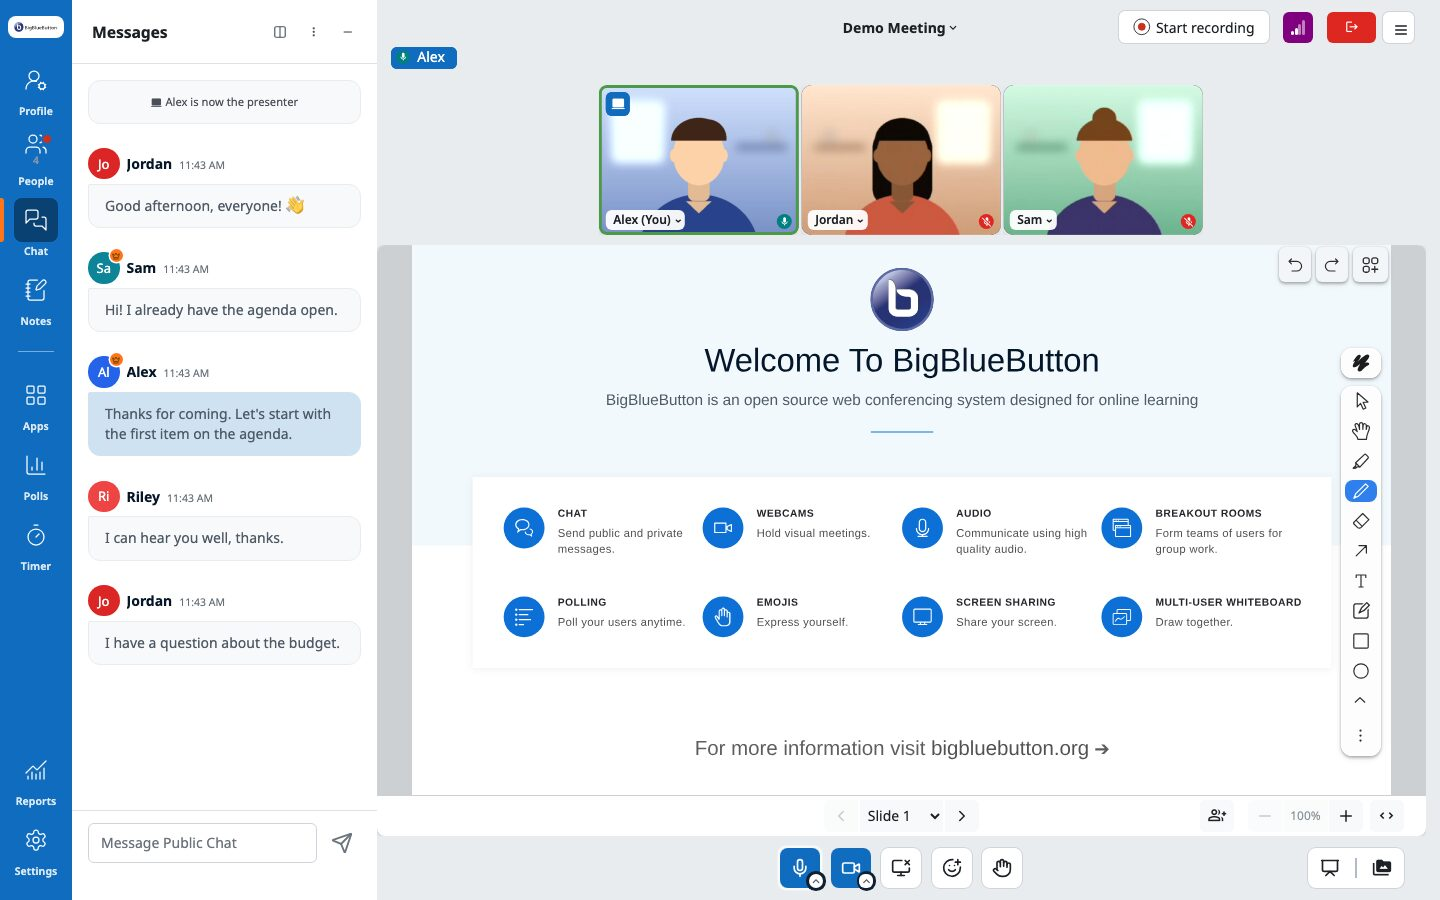
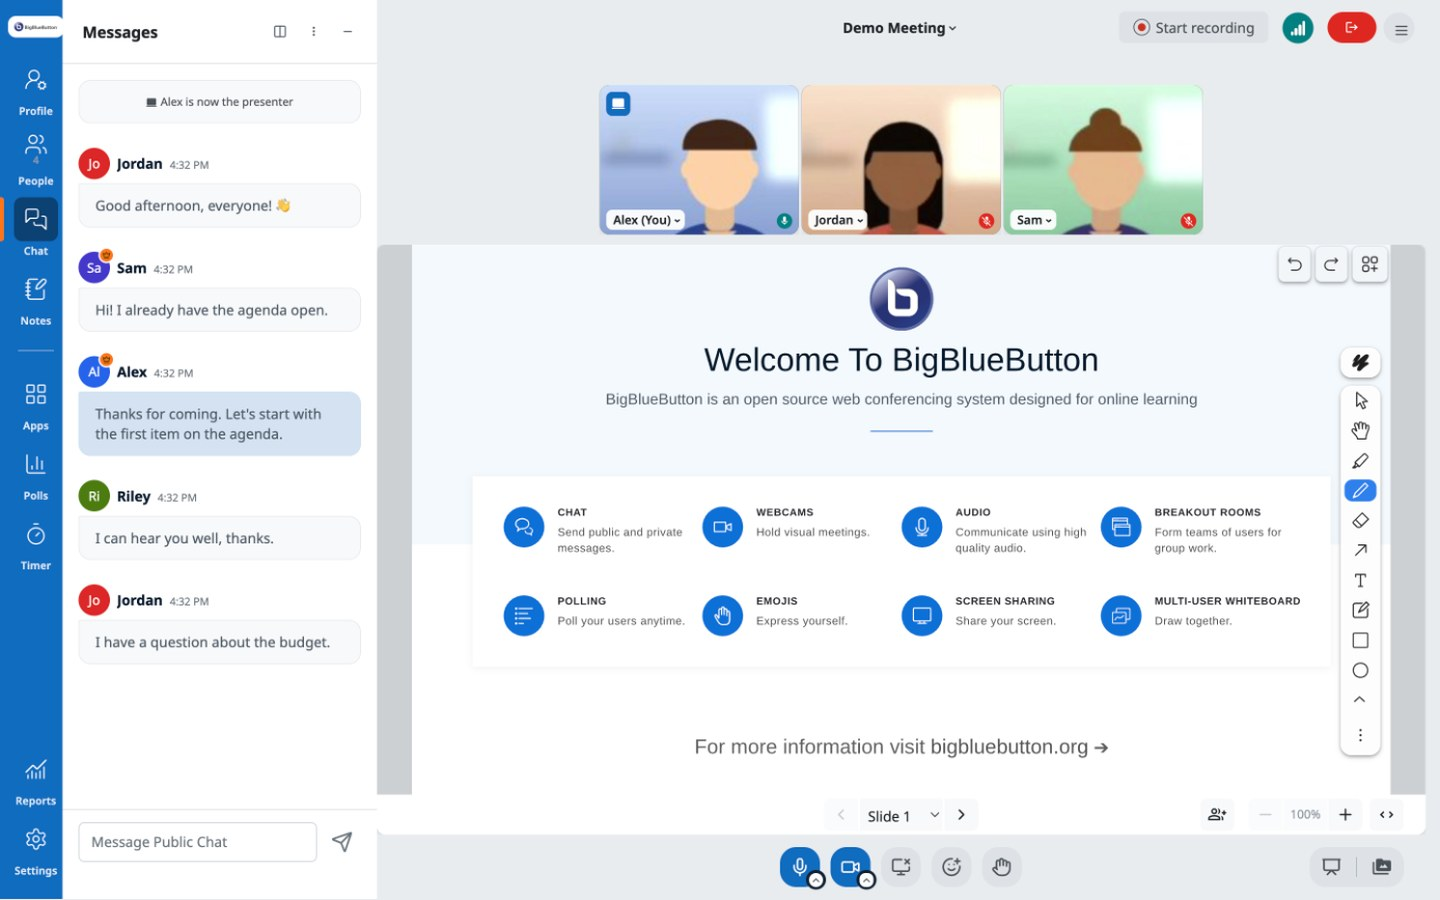
Moodle: buttons, focus ring and notifications from Moodle Design System 5.5
Checked against MDS 5.5 (the 5.x line Moodle 5.3 uses). Colours, radii and
font already matched; these did not:

- secondary buttons filled gray (bg.interactive.secondary, text.subtle)
  with no outline, and icon-only buttons with the 16px corner (radius.xl)
- focus ring 2px (stroke-weight.md), 1px away (spacing.offset)
- notifications like the MDS Alert: tinted background, 1px border,
  8px corners and dark text, per type
- text on blue in text.inverse (gray.100)
- the shadows renamed --moodle-shadow-*: they are Boost's, MDS has none

Screenshot retaken on a plain BigBlueButton (default logo and
presentation, only the theme).

Claude-Session: https://claude.ai/code/session_01Dk5p3JmNHj8n9m8bNErn16

diff --git a/themes/moodle/theme.css b/themes/moodle/theme.css
@@ -5,7 +5,9 @@
  * a light gray stage, Noto Sans, 8px corners and the system's soft shadows.
  *
  * Token values: --mds-color-* primitives and the semantic tokens they map to
- * (bg.interactive.primary = blue.500, text.default = gray.900, ...).
+ * (bg.interactive.primary = blue.500, text.default = gray.900, ...), checked
+ * against MDS 5.5 (Moodle 5.3). The system has no shadow tokens; the
+ * --moodle-shadow-* values are Moodle's Boost theme (Bootstrap 5) shadows.
  */
 @import url("https://fonts.googleapis.com/css2?family=Noto+Sans:wght@400;500;600;700&display=swap");
 
@@ -17,19 +19,30 @@
   --mds-blue-500: #0F6CBF;
   --mds-blue-600: #0C5699;
   --mds-blue-700: #094173;
+  --mds-blue-800: #062B4C;
   --mds-gray-100: #F8F9FA;
   --mds-gray-200: #E9ECEF;
   --mds-gray-300: #DEE2E6;
   --mds-gray-400: #CED4DA;
+  --mds-gray-500: #8F959E;
   --mds-gray-600: #6A737B;
   --mds-gray-700: #495057;
   --mds-gray-900: #1D2125;
   --mds-orange-500: #FF7518;
   --mds-green-500: #357A32;
+  --mds-red-50: #FAEAE9;
+  --mds-red-200: #EAADA6;
   --mds-red-500: #CA3120;
-  --mds-shadow-sm: 0 2px 4px rgba(0, 0, 0, .08);
-  --mds-shadow-md: 0 8px 16px rgba(0, 0, 0, .15);
-  --mds-shadow-lg: 0 16px 48px rgba(0, 0, 0, .17);
+  --mds-red-800: #51140D;
+  --mds-green-50: #EBF2EA;
+  --mds-green-200: #AECAAD;
+  --mds-green-800: #153114;
+  --mds-yellow-50: #FDF7ED;
+  --mds-yellow-200: #F9DEB8;
+  --mds-yellow-800: #60451F;
+  --moodle-shadow-sm: 0 2px 4px rgba(0, 0, 0, .08);
+  --moodle-shadow-md: 0 8px 16px rgba(0, 0, 0, .15);
+  --moodle-shadow-lg: 0 16px 48px rgba(0, 0, 0, .17);
 
   --theme-background: var(--mds-gray-200);
   --theme-stage-text: var(--mds-gray-900);
@@ -44,7 +57,7 @@
   --theme-nav-marker: var(--mds-orange-500);
   --theme-primary: var(--mds-blue-500);
   --theme-primary-soft: rgba(15, 108, 191, .2);
-  --theme-on-primary: #fff;
+  --theme-on-primary: var(--mds-gray-100); /* text.inverse */
   --theme-danger: var(--mds-red-500);
   --theme-moderator: var(--mds-orange-500);
   --theme-talking: #4C9A48;
@@ -61,27 +74,28 @@
   --theme-soft-text: var(--mds-gray-700);
   --theme-scroll: var(--mds-gray-400);
   --theme-badge-ring: #fff;
-  --theme-button-bg: #fff;
-  --theme-button-icon: var(--mds-gray-900);
-  --theme-button-hover: var(--mds-gray-200);
-  --theme-button-shadow: 0 0 0 1px var(--mds-gray-400);
-  --theme-shadow: var(--mds-shadow-md);
+  /* Secondary button: bg.interactive.secondary (filled gray) and text.subtle */
+  --theme-button-bg: var(--mds-gray-300);
+  --theme-button-icon: var(--mds-gray-700);
+  --theme-button-hover: var(--mds-gray-400);
+  --theme-button-shadow: none;
+  --theme-shadow: var(--moodle-shadow-md);
   --theme-font: "Noto Sans", "Helvetica Neue", Arial, sans-serif;
 
-  /* border radius tokens: md 8, sm 6, lg 12 */
+  /* border radius tokens: md 8, sm 6, lg 12; icon-only buttons use xl 16 */
   --theme-radius: 8px;
   --theme-radius-sm: 6px;
   --theme-radius-bubble: 12px;
   --theme-radius-modal: 12px;
   --theme-nav-radius: 8px;
   --theme-action-size: 40px;
-  --theme-action-radius: 8px;
+  --theme-action-radius: 16px;
 }
 
-/* Moodle's focus ring: a solid blue outline that's always visible */
+/* Moodle's focus ring: focus.default, 2px (stroke-weight.md), 1px away (spacing.offset) */
 :is(button, a, [role="button"], [role="menuitem"], [role="tab"]):focus-visible {
-  outline: 3px solid var(--mds-blue-500) !important;
-  outline-offset: 2px !important;
+  outline: 2px solid var(--mds-blue-500) !important;
+  outline-offset: 1px !important;
 }
 
 /* ---- Icon bar: Moodle blue, active item darker with the brand orange mark ---- */
@@ -119,7 +133,7 @@
 
 /* ---- Stage: cards on the gray page ---- */
 .bbb-presentation__content {
-  box-shadow: var(--mds-shadow-sm), 0 0 0 1px var(--mds-gray-300);
+  box-shadow: var(--moodle-shadow-sm), 0 0 0 1px var(--mds-gray-300);
 }
 
 .bbb-presentation-toolbar {
@@ -130,7 +144,7 @@
 .bbb-webcam {
   border-radius: 8px !important;
   overflow: hidden;
-  box-shadow: var(--mds-shadow-sm);
+  box-shadow: var(--moodle-shadow-sm);
 }
 
 .bbb-webcam::after {
@@ -148,20 +162,25 @@
   color: var(--theme-text) !important;
 }
 
-/* ---- Top bar: secondary buttons like Moodle's btn-secondary ---- */
+/* ---- Top bar: icon-only secondary buttons (filled gray, 16px corners) ---- */
 .bbb-navbar__title {
   font-weight: 700 !important;
 }
 
 .bbb-options-button > .bbb-button__icon {
-  border-radius: 6px !important;
+  border-radius: 16px !important;
+  background: var(--theme-button-bg) !important;
   box-shadow: var(--theme-button-shadow);
   color: var(--theme-button-icon) !important;
 }
 
+.bbb-options-button:hover > .bbb-button__icon {
+  background: var(--theme-button-hover) !important;
+}
+
 .bbb-leave-button button.bbb-button--danger,
 button.bbb-connection-status-button > span.bbb-button__icon {
-  border-radius: 6px !important;
+  border-radius: 16px !important;
 }
 
 .bbb-talking-indicator__item {
@@ -198,7 +217,7 @@ button.bbb-connection-status-button > span.bbb-button__icon {
 }
 
 .ReactModal__Content {
-  box-shadow: var(--mds-shadow-lg) !important;
+  box-shadow: var(--moodle-shadow-lg) !important;
 }
 
 .ReactModal__Content > div:first-child > p {
@@ -207,10 +226,42 @@ button.bbb-connection-status-button > span.bbb-button__icon {
   color: var(--mds-gray-900) !important;
 }
 
-/* Alerts like Moodle's: tinted background, coloured left edge */
+/* Notifications like the MDS Alert: tinted background, 1px border, 8px corners */
 .Toastify__toast {
-  border: 1px solid var(--mds-blue-200);
-  border-left: 4px solid var(--mds-blue-500) !important;
+  border: 1px solid var(--mds-blue-200) !important;
+  border-radius: 8px !important;
+  background: var(--mds-blue-50) !important;
+}
+
+.Toastify__toast--success {
+  border-color: var(--mds-green-200) !important;
+  background: var(--mds-green-50) !important;
+}
+
+.Toastify__toast--warning {
+  border-color: var(--mds-yellow-200) !important;
+  background: var(--mds-yellow-50) !important;
+}
+
+.Toastify__toast--error {
+  border-color: var(--mds-red-200) !important;
+  background: var(--mds-red-50) !important;
+}
+
+.Toastify__toast :is(div, span, p) {
+  color: var(--mds-blue-800);
+}
+
+.Toastify__toast--success :is(div, span, p) {
+  color: var(--mds-green-800);
+}
+
+.Toastify__toast--warning :is(div, span, p) {
+  color: var(--mds-yellow-800);
+}
+
+.Toastify__toast--error :is(div, span, p) {
+  color: var(--mds-red-800);
 }
 
 /* Second panel (multiFunctionalMode): the main panel already draws the edge between the two */
